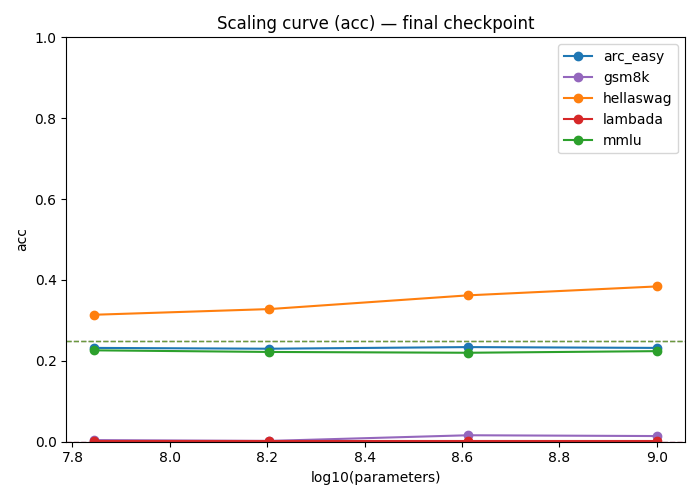
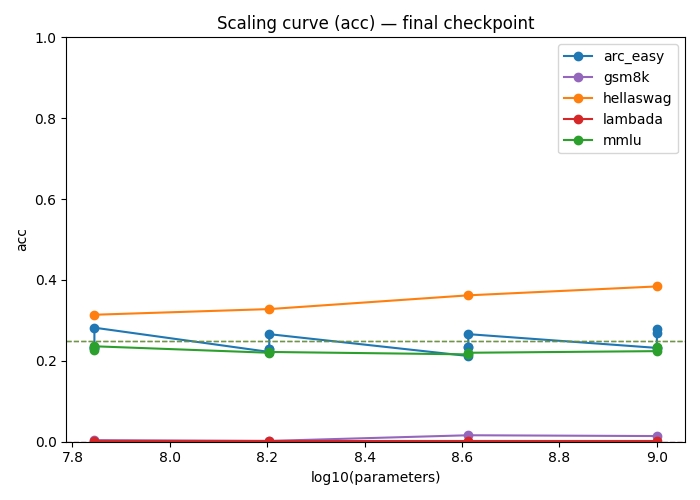
[Sprint-4.4] Run prompt-variant sweep on real hardware, quantify sensitivity
- sweeps/prompts.yaml executed on real Pythia checkpoints: 6 variant
  targets x 4 model sizes at final checkpoint, 0 failed
- Add report/figures/prompt_sensitivity.png; regenerate the other four
  figures from the updated DB
- findings.md: option-text lifts ARC-Easy/MMLU acc 3-7 points over
  letter baseline (more with acc_norm), but every variant/model point
  stays within ~0.05 of chance -- Sprint 3's flat-at-chance claim
  survives with a quantified caveat
- Note the letter-instruction variant is numerically identical to
  plain letter scoring, and 5-shot ARC-Easy is noisy/non-monotonic
- Checks off Sprint 4's real-sweep, figure, and report deliverables

Changed region(s): [[0.12, 0.63, 0.96, 0.72]]

diff --git a/report/findings.md b/report/findings.md
@@ -195,18 +195,57 @@ train split once per run, the same set for every evaluated example — so
 `prompt_variant_id` alone is enough to reconstruct exactly which demos scored
 any given run (architecture.md §5).
 
-**Status: pipeline proven offline, real sweep not yet run.** As with every
-prior sprint's headline artifact, `sweeps/prompts.yaml` has been validated by
-expanding it (`tests/test_sweep.py::test_load_sweep_spec_prompts_yaml`, 24
-runs, 6 distinct variant ids) and by an end-to-end DummyClient mini-sweep
-(`tests/test_cli_integration.py::test_variant_mini_sweep_then_prompt_sensitivity_figure_renders`)
-proving `sweep run` → DB → `ladderctl figures` renders
-`prompt_sensitivity.png` and that run rows carry distinct
-`prompt_variant_id`s. It has not yet run against real Pythia checkpoints —
-that run, the actual per-variant accuracy deltas, the 0- vs. 5-shot delta,
-and the answer to whether ARC-Easy/MMLU's flat-at-chance result (see the PPL
-vs. accuracy table above) survives the format change are the next step once
-GPU time is available.
+`sweeps/prompts.yaml` ran end-to-end on real hardware: all 6 variant targets
+× 4 Pythia sizes at the final checkpoint, 0 failed. Final-checkpoint (`main`)
+accuracy per variant:
+
+| variant | 70m | 160m | 410m | 1b |
+| --- | --- | --- | --- | --- |
+| arc_easy/mc_letter_v1 (acc) | 0.232 | 0.230 | 0.234 | 0.232 |
+| arc_easy/mc_letter_instr_v1 (acc) | 0.232 | 0.230 | 0.234 | 0.232 |
+| arc_easy/mc_option_text_v1 (acc) | 0.282 | 0.266 | 0.266 | 0.268 |
+| arc_easy/mc_option_text_v1 (acc_norm) | 0.300 | 0.276 | 0.296 | 0.272 |
+| arc_easy/mc_letter_5shot_v1 (acc) | 0.234 | 0.222 | 0.212 | 0.278 |
+| mmlu/mc_letter_v1 (acc) | 0.226 | 0.222 | 0.220 | 0.224 |
+| mmlu/mc_option_text_v1 (acc) | 0.236 | 0.220 | 0.216 | 0.234 |
+| mmlu/mc_option_text_v1 (acc_norm) | 0.294 | 0.288 | 0.284 | 0.288 |
+
+**The Sprint 1 signal replicates, at reduced size, across the whole ladder.**
+Switching ARC-Easy from lettered to option-text continuations lifts raw `acc`
+by 3–5 points at every model size (not the ~7-point jump the Sprint 1
+50-example spot check suggested — that was one model on a small sample), and
+`acc_norm` lifts it further still (up to 6.4 points over the letter baseline
+at 70m). MMLU shows the same direction and a larger `acc_norm` effect (up to
+6.8 points). The **instruction-line variant is identical to the plain letter
+variant** at every model size — prepending an explicit "choose the letter"
+instruction doesn't change which letter the model assigns highest
+log-likelihood to, so that axis alone isn't the lever; the scoring format
+(letter vs. option text) is what moves the number.
+
+**The claim is nuanced, not overturned.** Every one of the 32 (variant,
+model) accuracy points above sits within about 0.05 of the 4-option chance
+line (0.25) — option-text's real, measurable lift narrows the gap to chance
+without closing it at any size in this ladder. That's inconsistent with
+"format floor fully explains the flat line" (some of the flatness really is
+low capability, since no variant/model combination clears ~0.30) but also
+inconsistent with "the flat line is entirely capability-driven and prompt
+format is irrelevant" (the format lift is real, reproducible, and the same
+sign at every model size). The honest read: measurement format was
+suppressing part of the signal, not the emergent-capability story — Sprint
+3's "ARC-Easy/MMLU sit flat at chance" framing survives as directionally
+correct, with this section as its quantified caveat.
+
+**5-shot is noisy, not clearly better.** ARC-Easy's 5-shot accuracy
+(0.234/0.222/0.212/0.278) is not monotonic with scale and doesn't
+consistently beat the 0-shot letter baseline — at 500 examples a few raw
+answer flips move these numbers several points, so this reads as noise
+around the same chance-adjacent floor rather than a few-shot capability
+unlock, consistent with the letter continuation style still being the
+bottleneck (5-shot demos don't change how the *continuation* is scored, only
+how much context precedes it).
+
+See `report/figures/prompt_sensitivity.png` for the full per-benchmark dot
+plot (both `acc` and `acc_norm` views for the option-text variant).
 
 ## Future work
 
